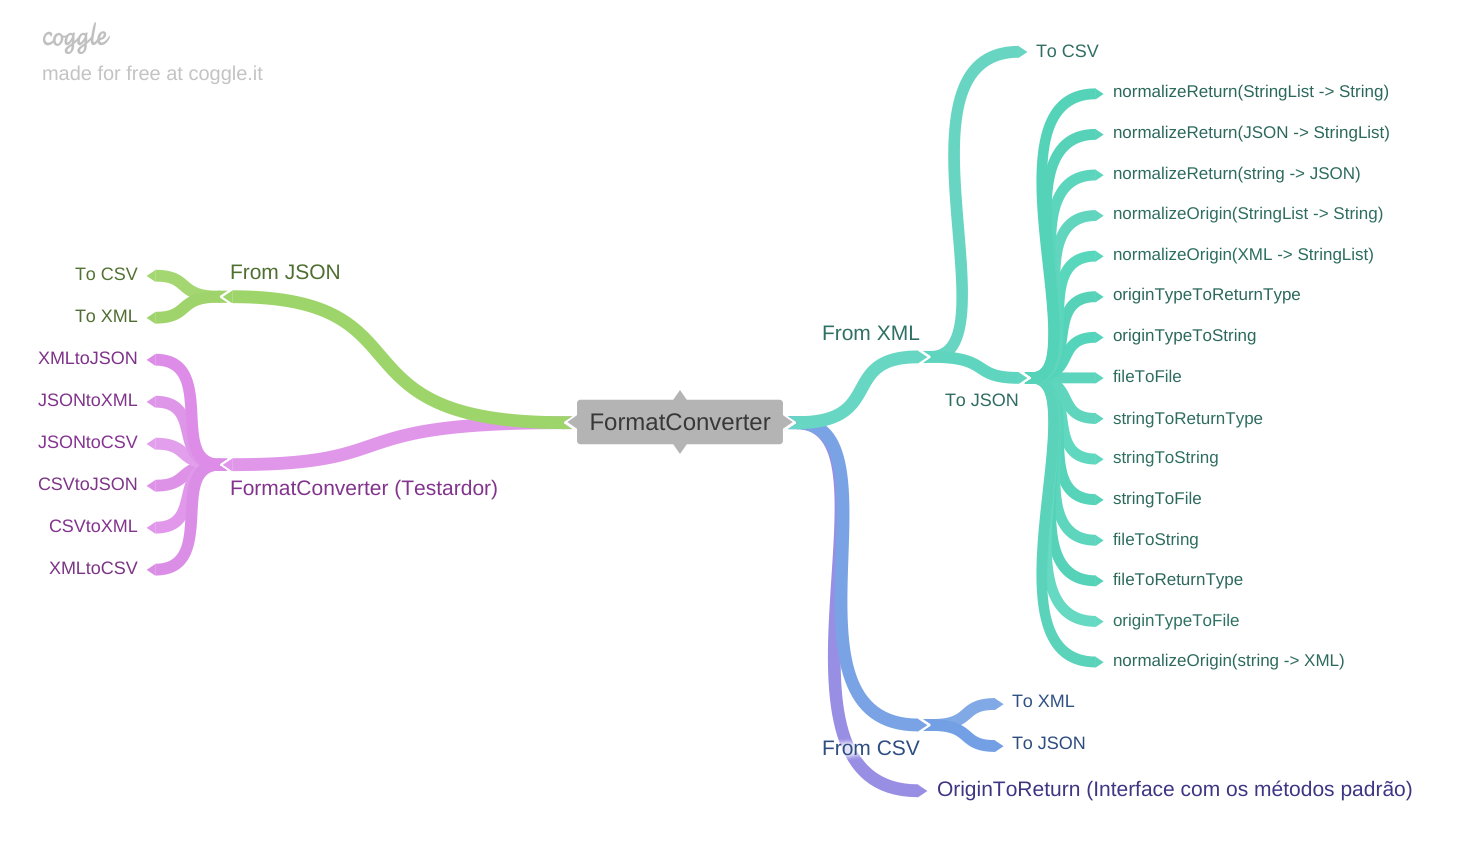
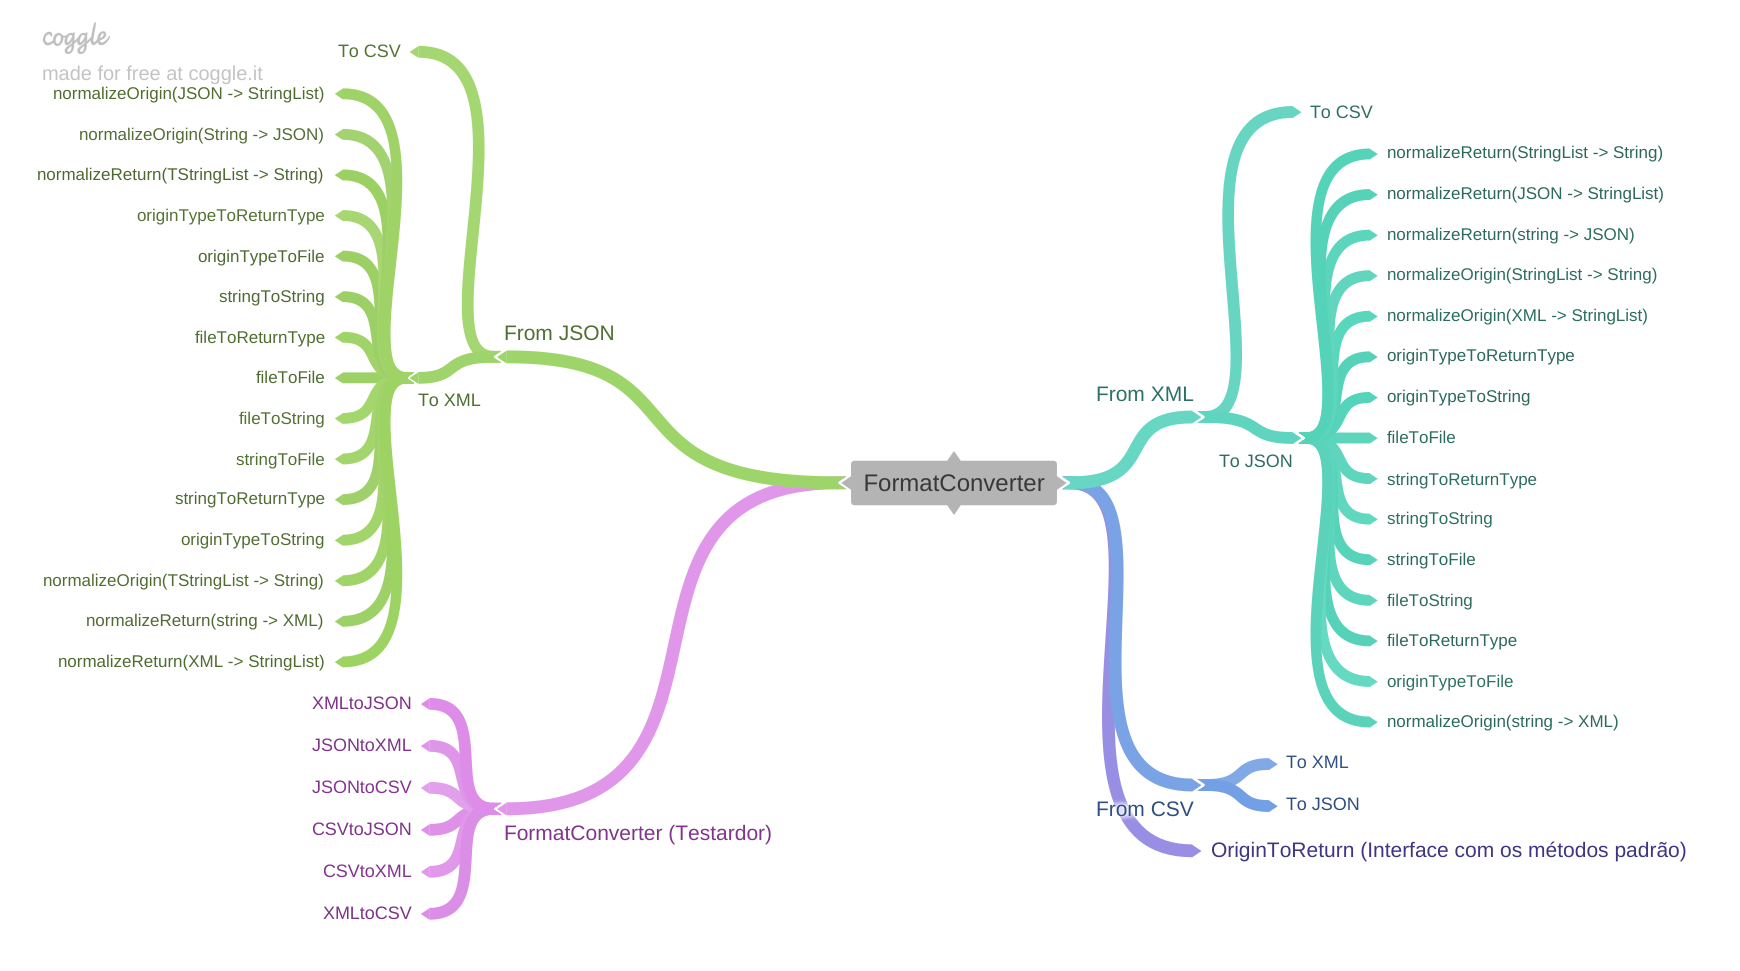
build 1.2.29.300 - Update Documentation

Changed region(s): [[0.0306, 0.0306, 0.9796, 0.9494], [0.7347, 0.0919, 0.949, 0.1225]]

diff --git a/README.md b/README.md
@@ -5,7 +5,7 @@
 <br />
 
 ![Maintenance](https://img.shields.io/maintenance/yes/2020)
-![Build](https://img.shields.io/badge/Build-1.1.15.271-brightgreen) 
+![Build](https://img.shields.io/badge/Build-1.2.29.300-brightgreen) 
 ![GitHub release (latest by date)](https://img.shields.io/github/v/release/bomrafinha/FormatConverter)
 ![GitHub Release Date](https://img.shields.io/github/release-date/bomrafinha/FormatConverter)
 ![Github repo age](https://img.shields.io/github/issues/detail/age/bomrafinha/FormatConverter/1.svg?style=flat-square)
@@ -52,6 +52,56 @@
 
 ## Uso <a name="uso"></a>
 
+- **TJSONtoXML**
+  * **stringToString:** Converte um JSON em forma de String em um XML em forma de string (string);
+    + **Parametrização**
+      - *strContent:* JSON à converter (string);
+  * **stringToFile:** Converte um JSON em forma de String em um arquivo XML (boolean);
+    + **Parametrização**
+      - *strContent:* JSON à converter (string);
+      - *filePathResult:* Caminho do arquivo XML à ser salvo (string);
+  * **stringToReturnType:** Converte um JSON em forma de String em um XML em forma de TXMLDocument (TXMLDocument);
+    + **Parametrização**
+      - *strContent:* JSON à converter (string);
+  * **fileToString:** Converte um arquivo JSON em um XML em forma de string (string);    
+    + **Parametrização**
+      - *filePath:* Caminho do arquivo JSON à converter (string);
+  * **fileToFile:** Converte um arquivo JSON em um arquivo XML (boolean);
+    + **Parametrização**
+      - *filePath:* Caminho do arquivo JSON à converter (string);
+      - *filePathResult:* Caminho do arquivo XML à ser salvo (string);
+  * **fileToReturnType:** Converte um arquivo JSON em um XML em forma de TXMLDocument (TXMLDocument);
+    + **Parametrização**
+      - *filePath:* Caminho do arquivo JSON à converter (string);
+  * **originTypeToString:** Converte um JSON em forma de TJSONObject em um XML em forma de string (string);
+    + **Parametrização**
+      - *content:* JSON à converter (TJSONObject);
+  * **originTypeToFile:** Converte um JSON em forma de TJSONObject em um arquivo XML (boolean);
+    + **Parametrização**
+      - *content:* JSON à converter (TJSONObject);
+      - *filePathResult:* Caminho do arquivo XML à ser salvo (string);
+  * **originTypeToReturnType:** Converte um JSON em forma de TJSONObject em um XML em forma de TXMLDocument (TXMLDocument);
+    + **Parametrização**
+      - *content:* JSON à converter (TJSONObject);
+  * **normalizeOrigin:** Converte um JSON em forma de String em um JSON em forma de TJSONObject (TJSONObject);
+    + **Parametrização**
+      - *content:* JSON à normalizar (string);
+  * **normalizeOrigin:** Converte um JSON em forma de TJSONObject em um JSON em forma de TStringList (TStringList);
+    + **Parametrização**
+      - *content:* JSON à normalizar (TJSONObject);
+  * **normalizeOrigin:** Converte um JSON em forma de TStringList em um JSON em forma de String (string);
+    + **Parametrização**
+      - *content:* JSON à normalizar (TStringList);
+  * **normalizeReturn:** Converte um XML em forma de String em um XML em forma de TXMLDocument (TXMLDocument);
+    + **Parametrização**
+      - *content:* XML à normalizar (string);
+  * **normalizeReturn:** Converte um XML em forma de TXMLDocument em um XML em forma de TStringList (TStringList);
+    + **Parametrização**
+      - *content:* XML à normalizar (TXMLDocument);
+  * **normalizeReturn:** Converte um XML em forma de TStringList em um XML em forma de String (string);
+    + **Parametrização**
+      - *content:* XML à normalizar (TStringList);
+      
 - **TXMLtoJSON**
   * **stringToString:** Converte um XML em forma de String em um JSON em forma de string (string);
     + **Parametrização**
@@ -104,7 +154,7 @@
 
 <br />
  
-## [Sitemap](https://coggle.it/diagram/XmZ2-WVe0wuFMqlu/t/-) <a name="sitemap"></a>   
+## [Sitemap]https://coggle.it/diagram/XmZ2-WVe0wuFMqlu/t/formatconverter/8eab1c100cdfab7da57fd7b188f16250b46cd1b54f3256000d57bb42499f2147) <a name="sitemap"></a>   
 ![Sitemap](documentation/images/sitemap.png)
 
 <br />
@@ -119,7 +169,8 @@
 + **project:** Diretório com os projetos de cada pacote e testador;
 + **src:** Contém o fonte essencial para o funcionamento do(s) pacote(s);
   - **OriginToReturn:** Contém a interface de que comanda a implementação dos pacotes;
-  - **XMLtoJSON:** Contém o pacote usado para conversão de XML para JSON;
+  - **JSONtoXML:** Contém o pacote usado para conversão de XML para JSON;
+  - **XMLtoJSON:** Contém o pacote usado para conversão de JSON para XML;
 + **vendor:** Contém os pacotes de terceiros;
  
 <br />
@@ -143,7 +194,7 @@ Deve-se manter a ordem de compilação do projeto como na imagem.
 
 ## Contribuir <a name="contribuir"></a>
 1. Faça um "fork" com base no master;
-2. Faça "commit" de suas alterações (Caso estiver resolvento alguma "issue" não esqueça de na mensagem escrever "Fixed #numeroIssue");
+2. Faça "commit" de suas alterações (Caso estiver resolvendo alguma "issue" não esqueça de na mensagem escrever "Fixed #numeroIssue");
 3. Faça "push" de seus commits;
 4. Solicite um "pull request" para o master do repositório principal.
 
@@ -293,23 +344,10 @@ Separar declações de variáveis, métodos, construtores, destrutores e proprie
 
 + Estrutura básica do código
   - Pacotes com recursos visuais (arrastar e soltar)
+  - Remover métodos de normalização da interface *OriginToReturn* e adicioná-los à uma nova Inteface
 
 + Conversor JSON -> XML
-  - Entrada JSON    -> Saída XML
-  - Entrada JSON    -> Saída string
-  - Entrada JSON    -> Saída arquivo
-  - Entrada string  -> Saída XML
-  - Entrada string  -> Saída string
-  - Entrada string  -> Saída arquivo
-  - Entrada arquivo -> Saída XML
-  - Entrada arquivo -> Saída string
-  - Entrada arquivo -> Saída arquivo
-  - Normalizar origin String      -> JSON
-  - Normalizar origin JSON        -> TStringList
-  - Normalizar origin TStringList -> String
-  - Normalizar return String      -> XML
-  - Normalizar return XML         -> TStringList
-  - Normalizar return TStringList -> String
+  - Entrada JSON -> Saída XML
 
 + Conversor JSON -> CSV
   - Entrada JSON    -> Saída CSV
